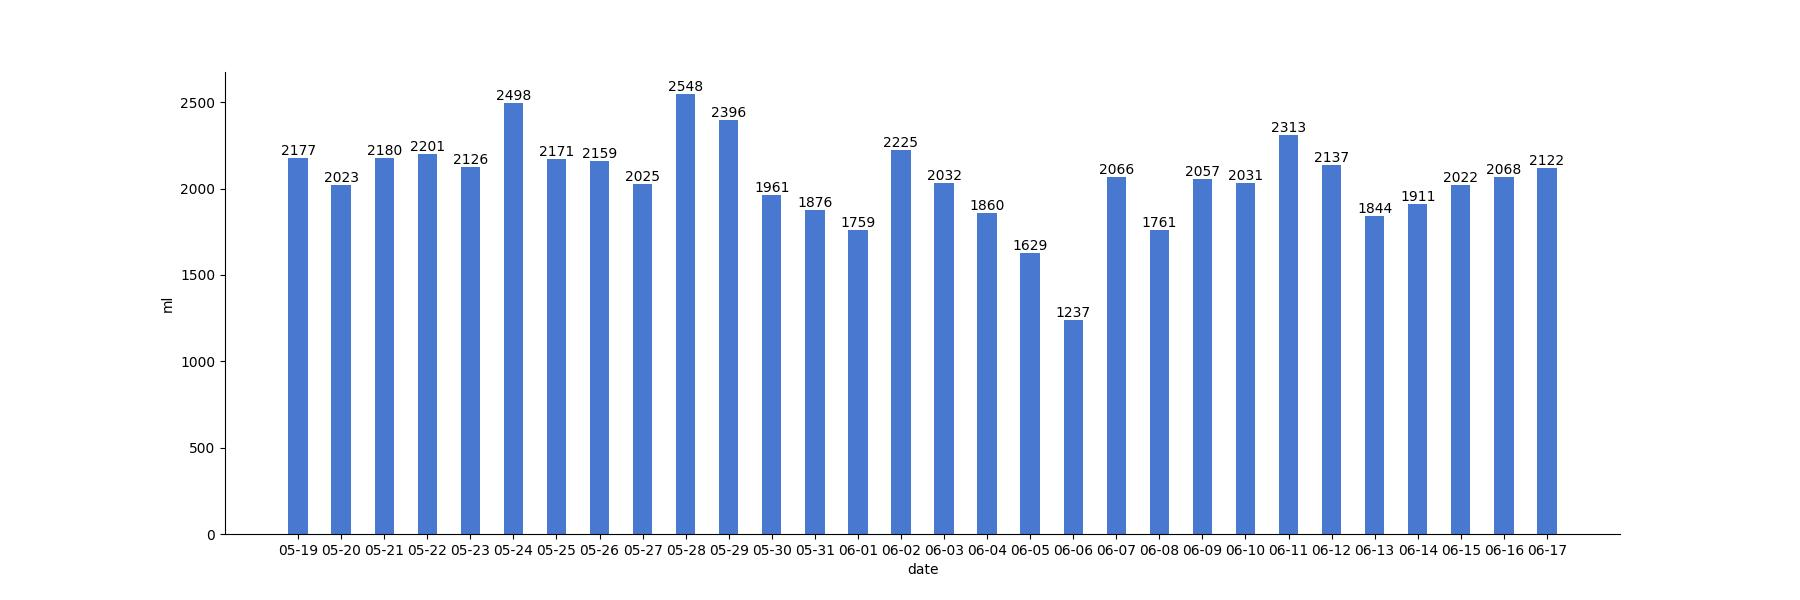
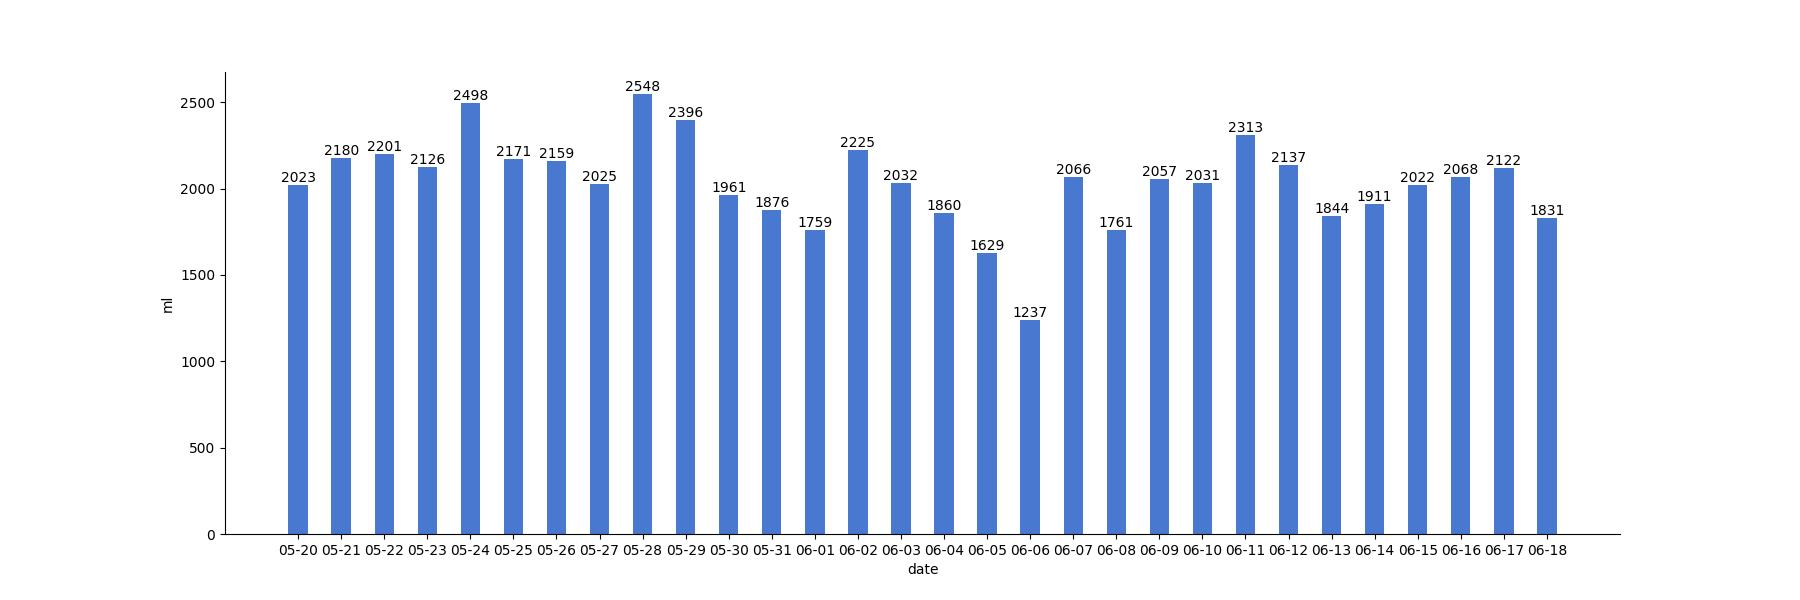
generated readme

diff --git a/README.md b/README.md
@@ -5,12 +5,12 @@
 
 | 今日总饮水量 | 每小时平均饮水量 |
 | :----: | :----: |
-| 1831 | 122 |
+| 49 | 49 |
 </div>
 
-| 日期 | 07:57:57 | 08:43:31 | 09:03:16 | 09:27:27 | 10:28:30 | 10:58:24 | 11:50:49 | 12:20:49 | 12:58:22 | 13:33:44 | 14:33:28 | 15:55:08 | 17:15:15 | 17:50:34 | 19:02:03 | 20:10:23 | 20:39:37 | 21:03:49 | 22:34:18 | 23:06:49 |
-| :----: | :----: | :----: | :----: | :----: | :----: | :----: | :----: | :----: | :----: | :----: | :----: | :----: | :----: | :----: | :----: | :----: | :----: | :----: | :----: | :----: |
-| 2022-06-18 | 79 | 152 | 55 | 88 | 55 | 60 | 26 | 200 | 82 | 55 | 72 | 58 | 200 | 83 | 134 | 32 | 58 | 79 | 63 | 200 |
+| 日期 | 00:01:34 |
+| :----: | :----: |
+| 2022-06-19 | 49 |
 
 # 近30日饮水数据
 
@@ -19,8 +19,12 @@
 
 | 总饮水量 | 日均饮水量 |
 | :----: | :----: |
-| 61415 | 2047 |
+| 61069 | 2035 |
 </div>
+
+| 日期 | all | 07:57:57 | 08:43:31 | 09:03:16 | 09:27:27 | 10:28:30 | 10:58:24 | 11:50:49 | 12:20:49 | 12:58:22 | 13:33:44 | 14:33:28 | 15:55:08 | 17:15:15 | 17:50:34 | 19:02:03 | 20:10:23 | 20:39:37 | 21:03:49 | 22:34:18 | 23:06:49 |
+| :----: | :----: | :----: | :----: | :----: | :----: | :----: | :----: | :----: | :----: | :----: | :----: | :----: | :----: | :----: | :----: | :----: | :----: | :----: | :----: | :----: | :----: |
+| 2022-06-18 | 1831 | 79 | 152 | 55 | 88 | 55 | 60 | 26 | 200 | 82 | 55 | 72 | 58 | 200 | 83 | 134 | 32 | 58 | 79 | 63 | 200 |
 
 | 日期 | all | 00:02:32 | 00:50:35 | 01:13:14 | 08:00:50 | 08:49:56 | 10:00:01 | 10:18:33 | 10:29:49 | 11:31:10 | 12:23:18 | 13:06:02 | 13:57:32 | 14:50:01 | 15:13:47 | 16:46:31 | 17:34:54 | 18:29:06 | 19:00:19 | 19:30:25 | 20:33:29 | 21:03:48 | 21:41:52 | 22:11:23 | 22:41:43 |
 | :----: | :----: | :----: | :----: | :----: | :----: | :----: | :----: | :----: | :----: | :----: | :----: | :----: | :----: | :----: | :----: | :----: | :----: | :----: | :----: | :----: | :----: | :----: | :----: | :----: | :----: |
@@ -141,8 +145,4 @@
 | 日期 | all | 00:21:32 | 00:43:42 | 07:59:28 | 08:45:27 | 09:20:29 | 10:08:37 | 11:01:49 | 11:31:28 | 12:15:45 | 12:48:32 | 13:21:39 | 14:31:53 | 15:23:26 | 16:10:46 | 16:44:16 | 17:17:38 | 17:38:44 | 19:29:20 | 19:44:57 | 19:52:32 | 20:16:34 | 20:46:30 | 21:32:27 | 21:50:52 | 22:54:55 | 23:17:26 |
 | :----: | :----: | :----: | :----: | :----: | :----: | :----: | :----: | :----: | :----: | :----: | :----: | :----: | :----: | :----: | :----: | :----: | :----: | :----: | :----: | :----: | :----: | :----: | :----: | :----: | :----: | :----: | :----: |
 | 2022-05-19 | 2177 | 78 | 68 | 65 | 92 | 88 | 98 | 73 | 78 | 200 | 72 | 60 | 70 | 147 | 74 | 80 | 70 | 100 | 77 | 37 | 44 | 83 | 93 | 93 | 78 | 77 | 82 |
-
-| 日期 | all | 00:19:14 | 00:54:44 | 08:00:36 | 08:09:04 | 08:37:19 | 09:47:07 | 10:16:22 | 11:19:01 | 12:19:14 | 13:01:29 | 13:53:51 | 14:38:15 | 15:15:14 | 16:03:17 | 16:30:14 | 18:58:44 | 19:28:40 | 19:42:50 | 20:16:52 | 20:42:39 | 20:58:05 | 21:17:58 | 21:47:54 | 22:18:35 | 22:49:28 | 23:19:47 | 23:49:20 |
-| :----: | :----: | :----: | :----: | :----: | :----: | :----: | :----: | :----: | :----: | :----: | :----: | :----: | :----: | :----: | :----: | :----: | :----: | :----: | :----: | :----: | :----: | :----: | :----: | :----: | :----: | :----: | :----: | :----: |
-| 2022-05-18 | 1908 | 39 | 62 | 78 | 85 | 66 | 74 | 31 | 50 | 200 | 18 | 77 | 85 | 55 | 78 | 54 | 200 | 90 | 46 | 81 | 36 | 128 | 37 | 47 | 64 | 47 | 28 | 52 |
 
